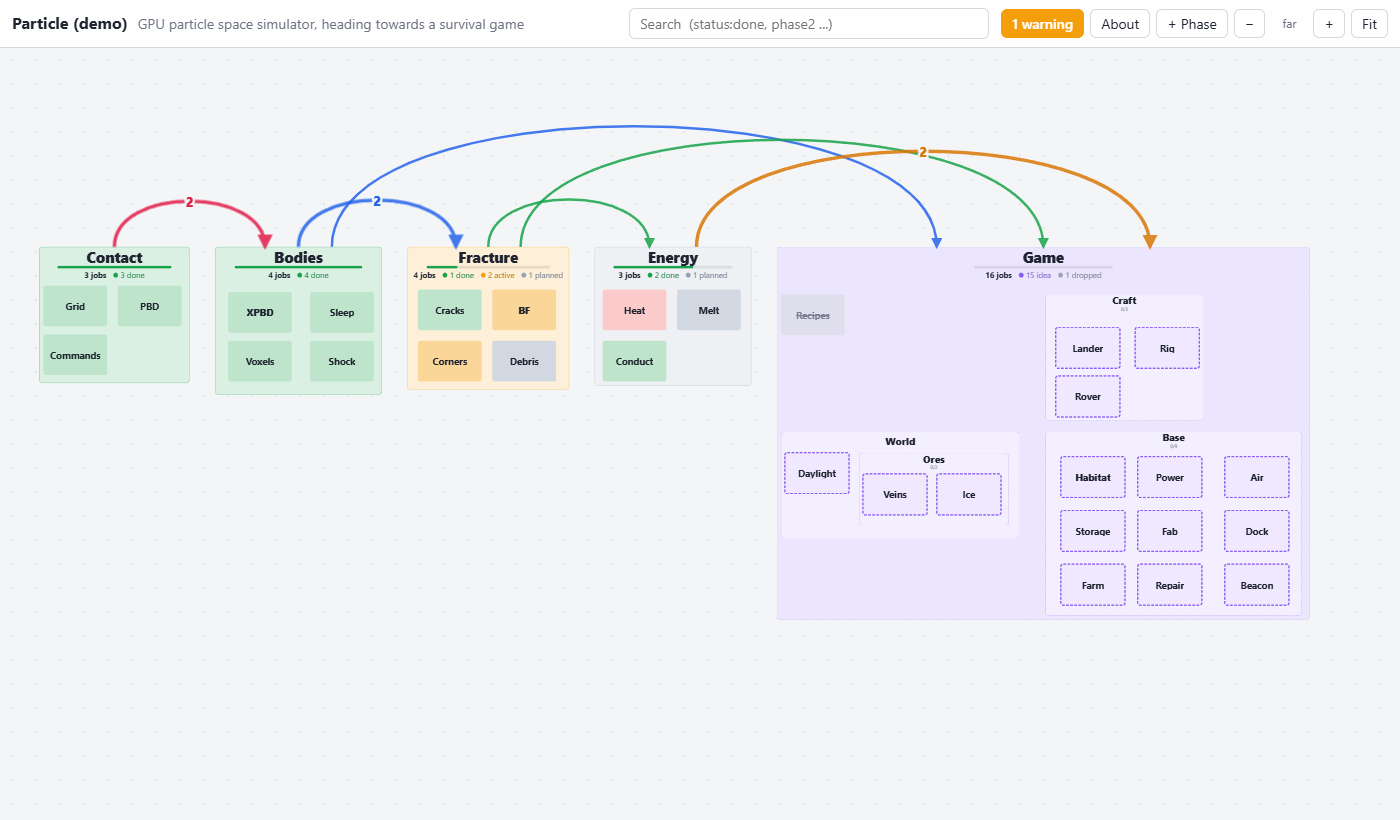
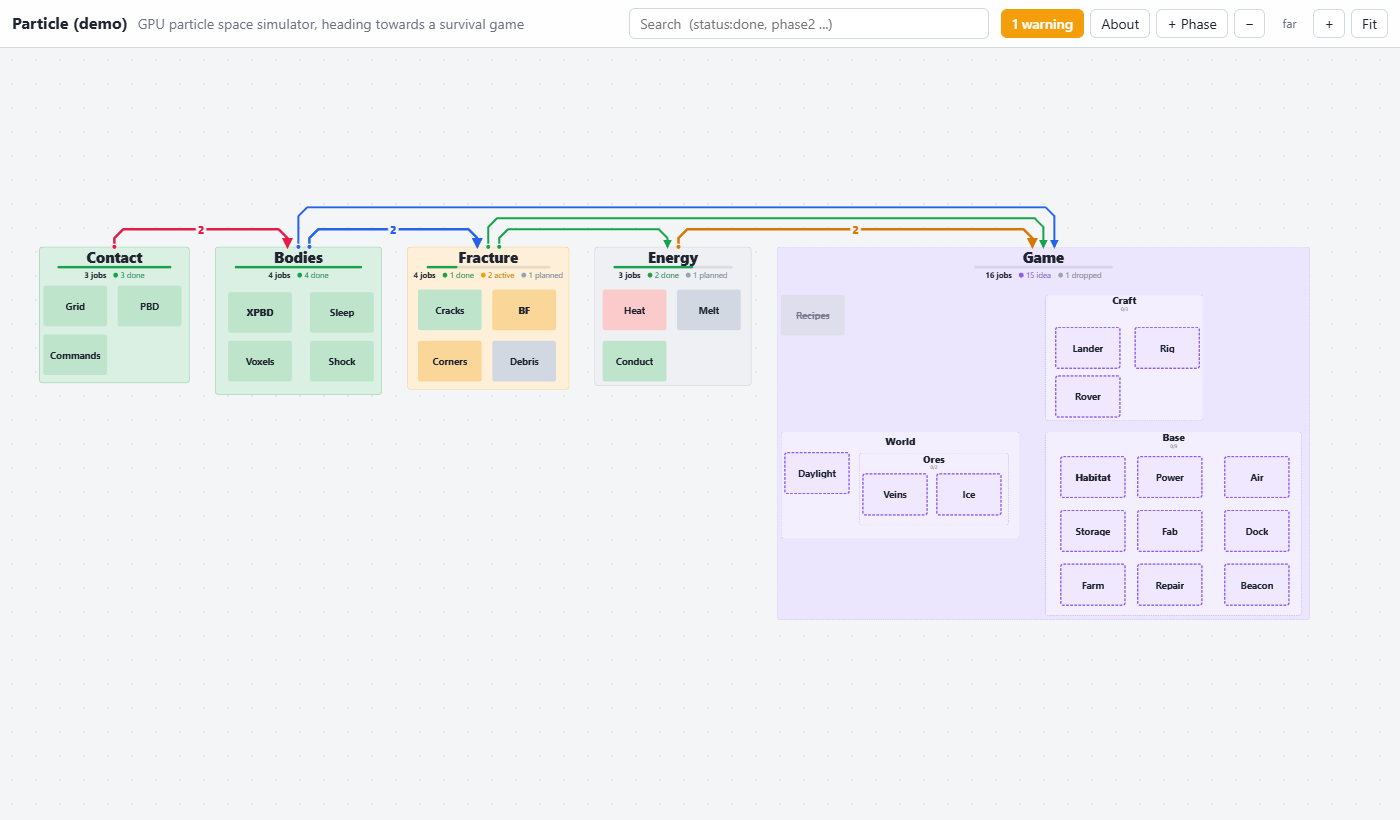
Far zoom: phase links routed as PCB-style tracks (stacked levels, 45° bends, nested links never cross, screen-constant spacing); roadmap phase1/e

diff --git a/src/webroadmap/static/app.js b/src/webroadmap/static/app.js
@@ -269,7 +269,7 @@ function endY(nd, k, cnt) {
   return nd.y + band / 2 + (k - (cnt - 1) / 2) * sp;
 }
 // Orthogonal polyline -> path with rounded corners.
-function roundedPath(pts, r = 12) {
+function roundedPath(pts, r = 12, chamfer = false) {
   const p = [];
   for (const q of pts) {
     const l = p[p.length - 1];
@@ -288,10 +288,35 @@ function roundedPath(pts, r = 12) {
     const rr = Math.min(r, l1 / 2, l2 / 2);
     const p1 = [b[0] + ((a[0] - b[0]) / l1) * rr, b[1] + ((a[1] - b[1]) / l1) * rr];
     const p2 = [b[0] + ((c[0] - b[0]) / l2) * rr, b[1] + ((c[1] - b[1]) / l2) * rr];
-    d += `L${f(p1[0])},${f(p1[1])}Q${f(b[0])},${f(b[1])} ${f(p2[0])},${f(p2[1])}`;
+    d += chamfer ? `L${f(p1[0])},${f(p1[1])}L${f(p2[0])},${f(p2[1])}` : `L${f(p1[0])},${f(p1[1])}Q${f(b[0])},${f(b[1])} ${f(p2[0])},${f(p2[1])}`;
   }
   const z = p[p.length - 1];
   return d + `L${f(z[0])},${f(z[1])}`;
+}
+// Far-zoom phase tracks, spaced in screen pixels (redrawn as the far zoom changes).
+const TRACK = 11, PORT = 11;
+function drawBundles() {
+  const g = edgesEl.querySelector(".bnd"), B = S.bund;
+  if (!g || !B) return;
+  const inv = 1 / Math.min(S.view.s, FAR);
+  if (Math.abs(inv - S.bundInv) < 0.01 * inv) return;
+  S.bundInv = inv;
+  const pitch = TRACK * inv, f = (v) => v.toFixed(1);
+  for (const [ph, list] of Object.entries(B.ends)) {
+    const c = S.rects[ph].col, sp = Math.min(PORT * inv, (0.9 * c.w) / list.length);
+    list.forEach((en, k) => { en.bd["x" + en.end] = c.x + c.w / 2 + (k - (list.length - 1) / 2) * sp; });
+  }
+  const out = [], labels = [];
+  for (const bd of B.list) {
+    const ya = S.rects[bd.a].col.y, yb = S.rects[bd.b].col.y, yl = B.top - pitch * (1.6 + bd.lvl);
+    const ci = bd.ia % NPAL, back = bd.ib < bd.ia;
+    const w = (1.5 + 0.5 * Math.min(bd.n, 6)).toFixed(1);
+    const d = roundedPath([[bd.xa, ya], [bd.xa, yl], [bd.xb, yl], [bd.xb, yb]], 0.8 * pitch, true);
+    out.push(`<path class="${back ? "back" : ""}" data-a="${bd.a}" data-b="${bd.b}" style="--ec:var(--e${ci});--bw:${w}" d="${d}" marker-end="url(#farr${ci})"/>`,
+      `<circle class="pad" style="--ec:var(--e${ci})" cx="${f(bd.xa)}" cy="${f(ya)}" r="${f(2.6 * inv)}"/>`);
+    if (bd.n > 1) labels.push(`<text style="--ec:var(--e${ci})" x="${f((bd.xa + bd.xb) / 2)}" y="${f(yl)}">${bd.n}</text>`);
+  }
+  g.innerHTML = out.join("") + labels.join("");
 }
 const progress = (items) => {
   const total = items.filter((i) => i.status !== "dropped").length;
@@ -441,32 +466,37 @@ function build() {
     const k = p.id + ">" + q;
     bund.set(k, (bund.get(k) || { a: p.id, b: q, n: 0 })).get(k).n++;
   }
-  const ends = {}, colR = (id) => S.rects[id].col;
-  const cxOf = (id) => colR(id).x + colR(id).w / 2;
-  for (const bd of bund.values()) {
-    (ends[bd.a] = ends[bd.a] || []).push({ bd, o: bd.b, out: 1 });
-    (ends[bd.b] = ends[bd.b] || []).push({ bd, o: bd.a, out: 0 });
+  // Tracks, like PCB traces: up from the source phase, along a level, down into the target.
+  // Shorter spans get lower levels and every span sits above the spans it contains, so nested
+  // links never cross; partly overlapping spans just take different levels.
+  const bl = [...bund.values()];
+  for (const bd of bl) { bd.ia = phaseIx[bd.a]; bd.ib = phaseIx[bd.b]; bd.lo = Math.min(bd.ia, bd.ib); bd.hi = Math.max(bd.ia, bd.ib); }
+  const placed = [];
+  for (const bd of [...bl].sort((u, v) => u.hi - u.lo - (v.hi - v.lo) || u.lo - v.lo)) {
+    const over = placed.filter((o) => Math.max(o.lo, bd.lo) < Math.min(o.hi, bd.hi));
+    let lvl = Math.max(0, ...over.filter((o) => o.lo >= bd.lo && o.hi <= bd.hi).map((o) => o.lvl + 1));
+    while (over.some((o) => o.lvl === lvl)) lvl++;
+    bd.lvl = lvl;
+    placed.push(bd);
   }
-  for (const [ph, list] of Object.entries(ends)) {
-    list.sort((u, v) => cxOf(u.o) - cxOf(v.o) || v.out - u.out);
-    const c = colR(ph);
-    list.forEach((en, k) => { en.bd[en.out ? "xa" : "xb"] = c.x + c.w * (0.2 + (0.6 * (k + 0.5)) / list.length); });
+  // Ports on each phase's top: links going left first (lowest level leftmost), then links going
+  // right (lowest level rightmost), so the tracks leaving one phase fan out without crossing.
+  const ends = {};
+  for (const bd of bl) {
+    (ends[bd.a] = ends[bd.a] || []).push({ bd, end: "a", left: bd.ib < bd.ia });
+    (ends[bd.b] = ends[bd.b] || []).push({ bd, end: "b", left: bd.ia < bd.ib });
   }
-  const bpaths = [];
-  for (const bd of bund.values()) {
-    const ya = colR(bd.a).y, yb = colR(bd.b).y, h = 120 + 0.22 * Math.abs(bd.xb - bd.xa);
-    const ci = phaseIx[bd.a] % NPAL, back = phaseIx[bd.b] < phaseIx[bd.a];
-    const w = (1.6 + 0.9 * Math.min(bd.n, 8)).toFixed(1);
-    bpaths.push(`<path class="${back ? "back" : ""}" data-a="${bd.a}" data-b="${bd.b}" style="--ec:var(--e${ci});--bw:${w}" d="M${bd.xa.toFixed(1)},${ya} C${bd.xa.toFixed(1)},${(ya - h).toFixed(1)} ${bd.xb.toFixed(1)},${(yb - h).toFixed(1)} ${bd.xb.toFixed(1)},${yb}" marker-end="url(#farr${ci})"/>`);
-    if (bd.n > 1) bpaths.push(`<text style="--ec:var(--e${ci})" x="${((bd.xa + bd.xb) / 2).toFixed(1)}" y="${((ya + yb) / 2 - 0.75 * h).toFixed(1)}">${bd.n}</text>`);
-  }
+  for (const list of Object.values(ends)) list.sort((u, v) => v.left - u.left || (u.left ? u.bd.lvl - v.bd.lvl : v.bd.lvl - u.bd.lvl));
+  S.bund = { list: bl, ends, top: Math.min(...d.phases.map((p) => S.rects[p.id].col.y)), ix: phaseIx };
   edgesEl.setAttribute("width", S.world.w);
   edgesEl.setAttribute("height", S.world.h);
   const marker = (id, fill) => `<marker id="${id}" viewBox="0 0 10 10" refX="9" refY="5" markerWidth="13" markerHeight="13" markerUnits="userSpaceOnUse" orient="auto"><path d="M0,0L10,5L0,10z" style="fill:${fill}"/></marker>`;
   const fmarker = (id, fill) => `<marker id="${id}" viewBox="0 0 10 10" refX="8" refY="5" markerWidth="4.5" markerHeight="4.5" orient="auto"><path d="M0,0L10,5L0,10z" style="fill:${fill}"/></marker>`;
   edgesEl.innerHTML = `<defs>${[...Array(NPAL)].map((_, k) => marker("arr" + k, `var(--e${k})`) + fmarker("farr" + k, `var(--e${k})`)).join("")}
     <marker id="arr-bad" viewBox="0 0 10 10" refX="5" refY="5" markerWidth="7" markerHeight="7" orient="auto"><path d="M1,1L9,9M9,1L1,9" style="stroke:var(--bad);stroke-width:2.5"/></marker>
-    </defs><g class="jobs">` + paths.join("") + dots.join("") + `</g><g class="bnd">${bpaths.join("")}</g>`;
+    </defs><g class="jobs">` + paths.join("") + dots.join("") + `</g><g class="bnd"></g>`;
+  S.bundInv = 0;
+  drawBundles();
   for (const id of bad) {
     const el = nodesEl.querySelector(`.item[data-id="${CSS.escape(id)}"]`);
     if (el) { el.classList.add("bad"); el.querySelectorAll(".badge-bad").forEach((b) => (b.hidden = false)); }
@@ -508,6 +538,7 @@ function applyView() {
     if (lvl === "far") {
       const inv = (1 / v.s).toFixed(2);
       if (layer.style.getPropertyValue("--inv") !== inv) layer.style.setProperty("--inv", inv);
+      drawBundles();
     }
     clearTimeout(applyView.t);
     applyView.t = setTimeout(() => S.data && store("wr-view:" + S.data.root, S.view), 400);

diff --git a/src/webroadmap/static/style.css b/src/webroadmap/static/style.css
@@ -116,11 +116,12 @@ body.picking #viewport { cursor: crosshair; }
 #layer.far #edges .jobs path.tophase { stroke-dasharray: calc(2px * var(--inv)) calc(5px * var(--inv)); }
 #layer.far.chain #edges .jobs :not(.on) { display: none; }
 #layer.far #edges circle.port { r: calc(3.5px * var(--inv)); stroke-width: calc(1.5px * var(--inv)); }
-#edges .bnd path { stroke-width: calc(var(--bw) * 1px * var(--inv)); opacity: .85; }
+#edges .bnd path { stroke-width: calc(var(--bw) * 1px * var(--inv)); stroke-linejoin: round; }
 #edges .bnd path.back { stroke-dasharray: calc(8px * var(--inv)) calc(5px * var(--inv)); }
+#edges .bnd circle.pad { fill: var(--ec); stroke: var(--bg); stroke-width: calc(1.2px * var(--inv)); }
 #edges .bnd text {
-  font-weight: 800; font-size: calc(13px * var(--inv)); fill: var(--ec); text-anchor: middle; dominant-baseline: central;
-  paint-order: stroke; stroke: var(--bg); stroke-width: calc(4px * var(--inv)); stroke-linejoin: round;
+  font-weight: 800; font-size: calc(11px * var(--inv)); fill: var(--ec); text-anchor: middle; dominant-baseline: central;
+  paint-order: stroke; stroke: var(--bg); stroke-width: calc(5px * var(--inv)); stroke-linejoin: round;
 }
 
 /* ------------------------------------------------------------ columns */

diff --git a/docs/roadmap/phase1/e/item.md b/docs/roadmap/phase1/e/item.md
@@ -1,0 +1,14 @@
+---
+title: PCB-style phase tracks at far zoom
+nickname: PCB tracks
+status: done
+links: [phase1/d]
+done: 2026-11-12
+---
+**What:** The far-zoom phase-to-phase links are now straight orthogonal tracks, like PCB traces, instead of crossing Bézier arcs: each link rises from a pad on the source phase's top, runs along its own level and drops into the target with an arrow, with 45° bends.
+
+**Why:** Owner request (2026-11-12): on a real roadmap (Particle, 13 phases, ~40 phase links) the arcs were a tangle nobody could read; the zoomed-in grid routing was clean.
+
+**How:** Page only (`app.js` `build()` + `drawBundles()`, `style.css`). Levels are assigned like interval colouring: shorter spans first, each span above every span it contains, partial overlaps on distinct levels, so nested links never cross. Ports on each phase top: links going left first (lowest level leftmost), then links going right (lowest level rightmost), so tracks leaving one phase fan out without crossing. Track pitch, port spacing and bends are in screen pixels and are recomputed as the far zoom changes. Counts sit on the track's horizontal run.
+
+**Notes:** Tests: 29 pytest; browser check ALL OK (dark and light); README screenshots regenerated. Checked headless on the Particle roadmap: about 22 levels, readable. Remaining crossings are only where spans partly overlap (inherent). Possible follow-up: link counts can still sit on another track's vertical.

diff --git a/README.md b/README.md
@@ -26,8 +26,9 @@ shows it as a zoomable left-to-right box map you can also edit in the browser.
   each with its own status colour, progress count and collapse arrow. Item ids stay the same
   when items move between groups.
 - **Semantic zoom:** far = phases with nickname, progress bar and job counts per status, every job as a tile in
-  its status colour (titled while the title still fits), and one arc per pair of linked phases, thicker and
-  numbered for more links; very far out the phase names grow over the tiles. Click a tile to select it: its
+  its status colour (titled while the title still fits), and one track per pair of linked phases, routed
+  like PCB traces (straight runs with 45° bends on stacked levels over the phase tops, nested links never
+  crossing), thicker and numbered for more links; very far out the phase names grow over the tiles. Click a tile to select it: its
   whole chain of links stays drawn at any zoom. Mid = item titles, status chips and arrows; near = the whole
   box with its What/Why/How notes (Markdown).
 - **Status colours:** done green, active amber, planned grey, idea dashed purple, dropped faded and
